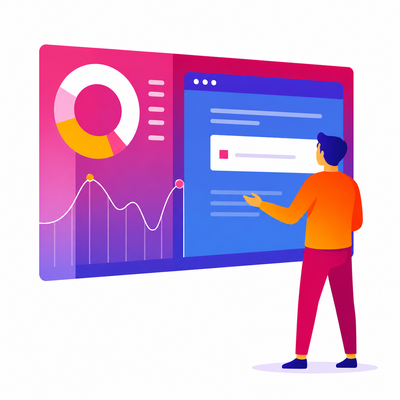
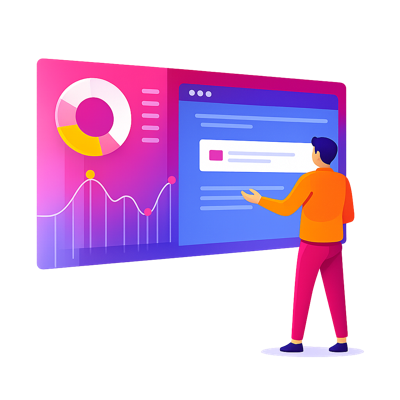
conteudo flex  ex14

diff --git a/exercicios/ex027/flex014-conteudo flex/index.html b/exercicios/ex027/flex014-conteudo flex/index.html
@@ -32,15 +32,10 @@
                 </div>
                 <div class="media">
                     <iframe width="560" height="315" src="https://www.youtube.com/embed/E0K6mAhxSkU?si=CUGazJCKWRKEueCW" title="YouTube video player" frameborder="0" allow="accelerometer; autoplay; clipboard-write; encrypted-media; gyroscope; picture-in-picture; web-share" referrerpolicy="strict-origin-when-cross-origin" allowfullscreen></iframe>
-                    
-                  
-
                 </div>
 
             </article>
-
-
-        </section>
+          </section> <!--fim da seção Flex-Content-->
         <section class="normal">
             <h2>Conteúdo normal</h2>
             <p>Lorem ipsum dolor sit, amet consectetur adipisicing elit. Magnam doloribus soluta temporibus cupiditate voluptatibus tenetur? Ipsam dignissimos porro eaque unde! Quaerat ut veritatis quidem quod totam itaque facere dignissimos ea? Lorem ipsum, dolor sit amet consectetur adipisicing elit. Repellendus perferendis nesciunt ipsum, quidem dicta exercitationem omnis sequi unde blanditiis fugiat doloremque asperiores ex eos inventore ea obcaecati facilis similique aperiam!</p>

diff --git a/exercicios/ex027/flex014-conteudo flex/style.css b/exercicios/ex027/flex014-conteudo flex/style.css
@@ -1,1 +1,29 @@
 @charset "UTF8";
+
+*{
+    margin: 0;
+    padding: 0;
+    box-sizing: border-box;
+}
+body{
+    font-family: Arial, Helvetica, sans-serif;
+    font-size: 1em;
+    line-height: 1.5em;
+
+   }
+
+   p, h1, h2 {
+    margin-bottom: 10px;
+    text-align: justify;
+   }
+
+   header, section.normal {
+    padding: 20px;
+
+   }
+
+section.flex-content {
+    padding: 20px;
+    background-color:rgb(175, 216, 192);
+}
+
